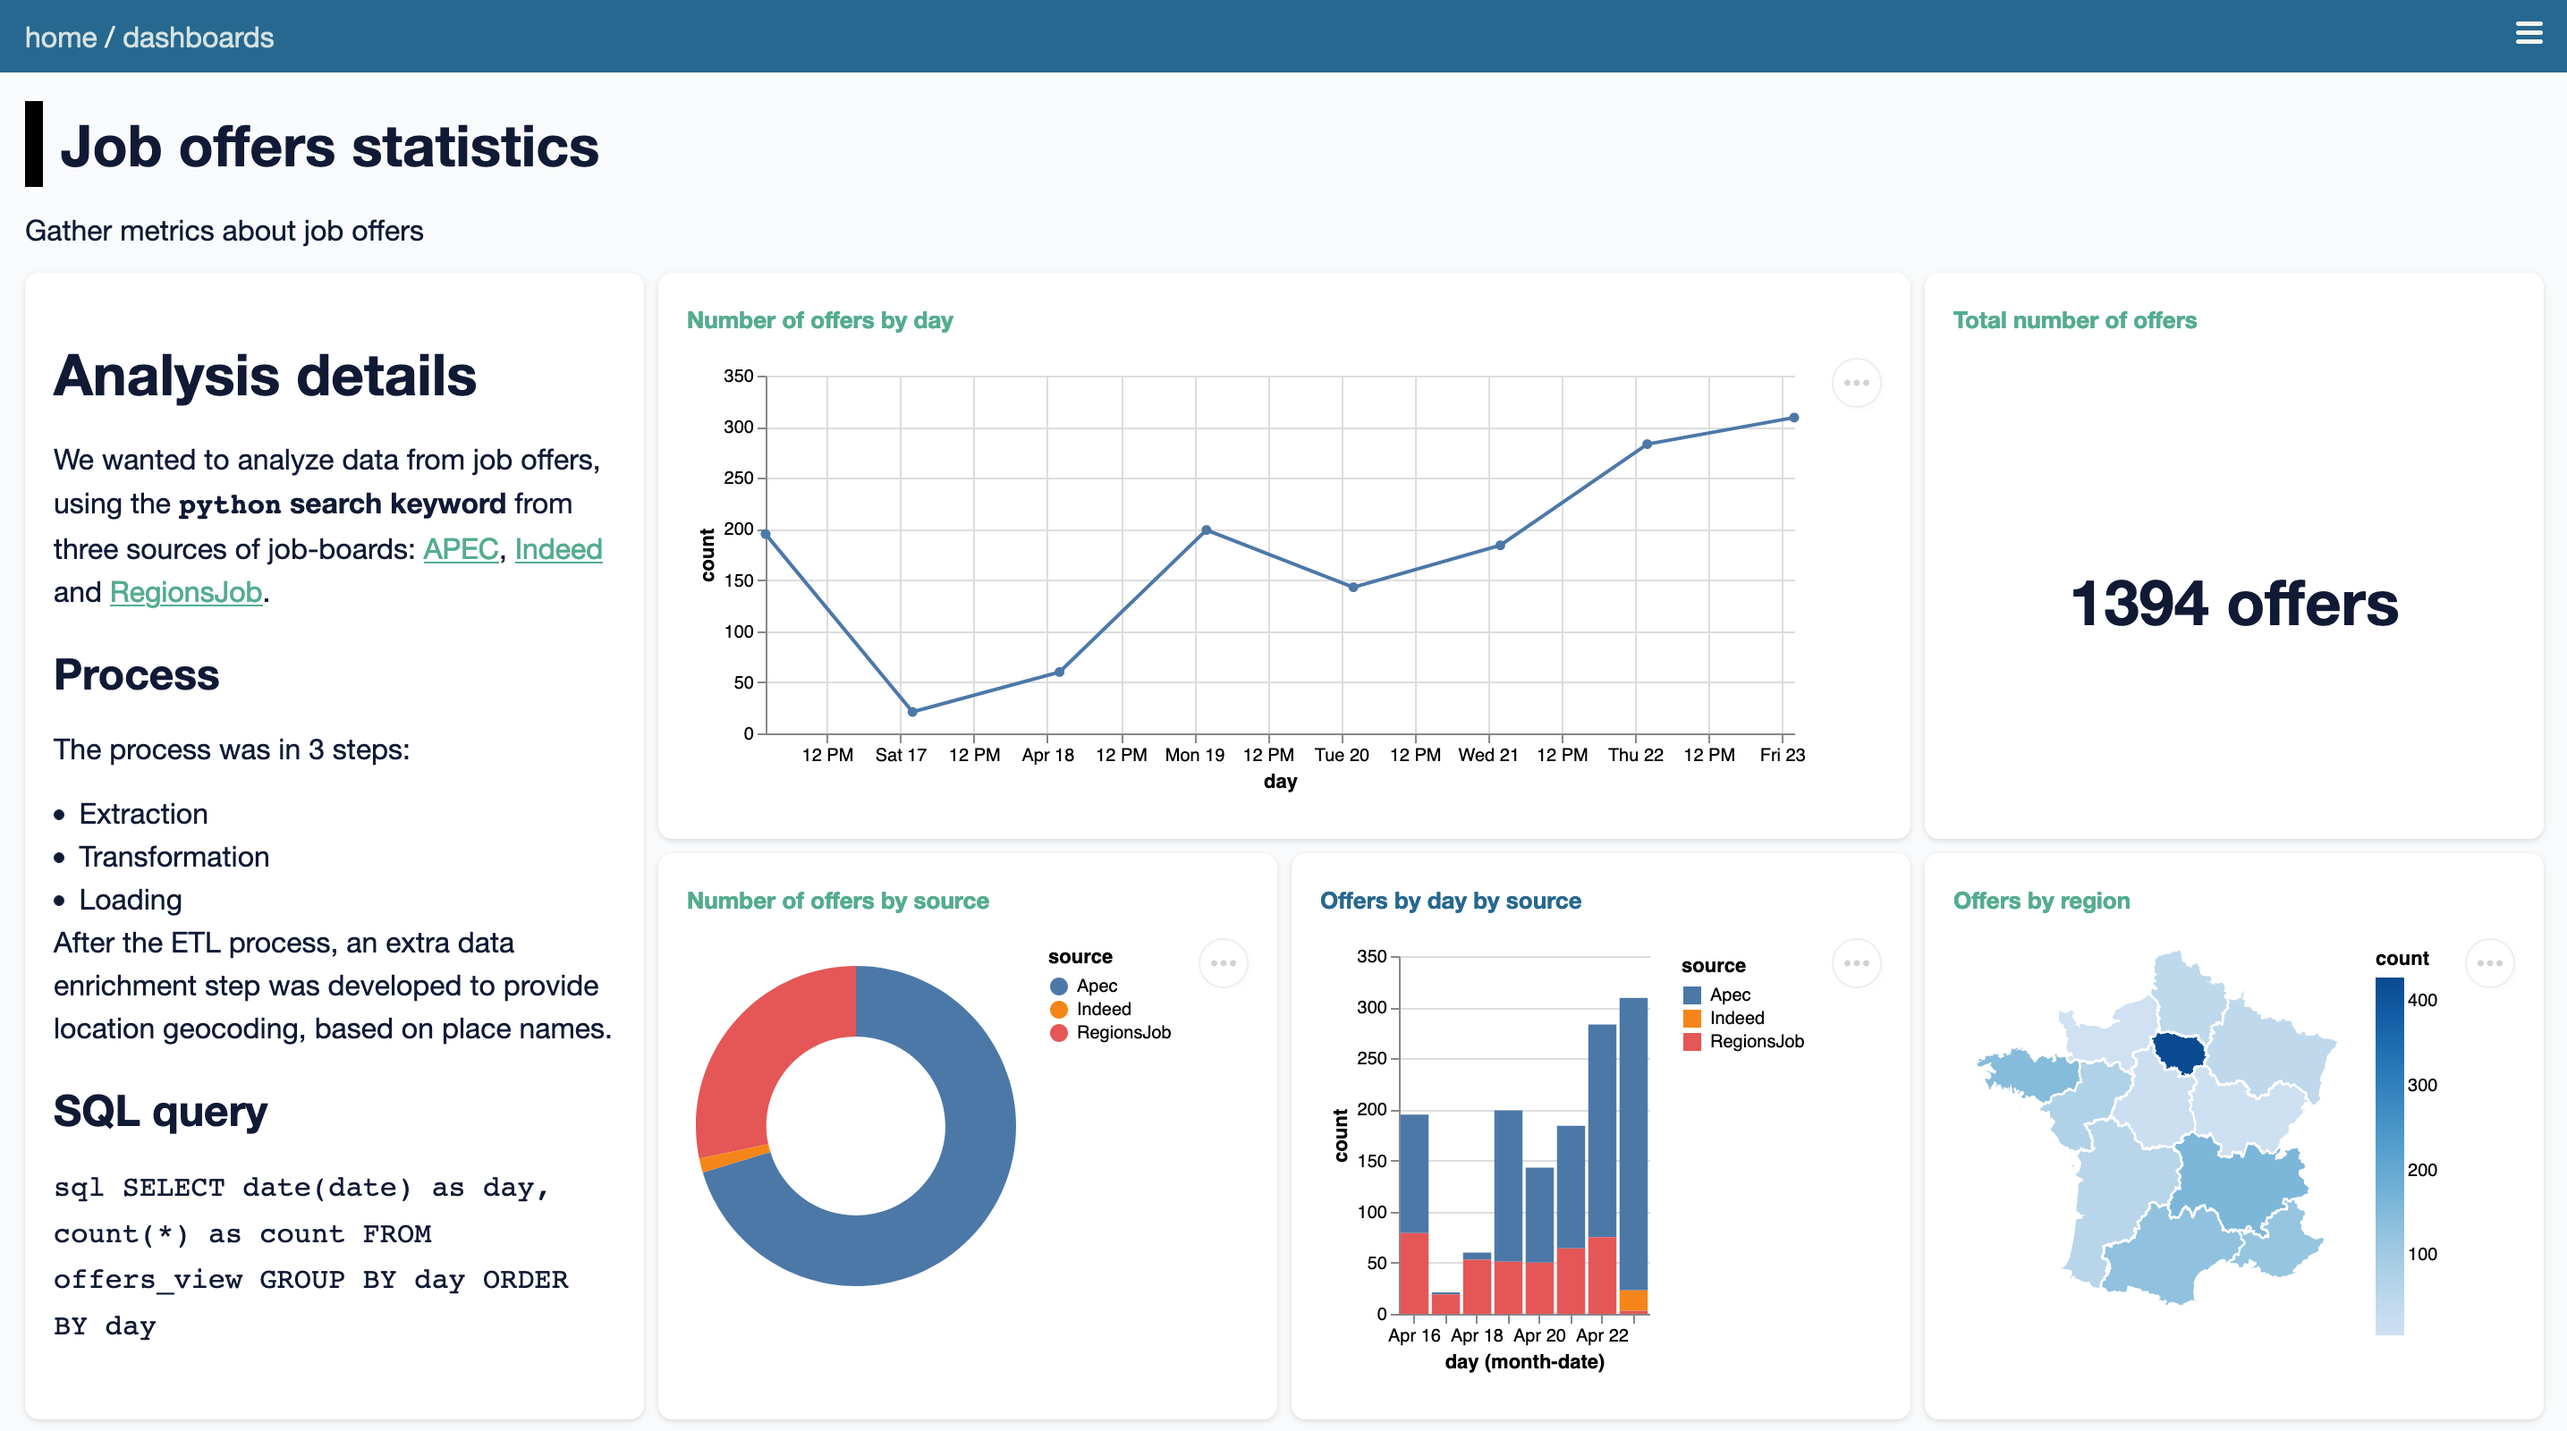
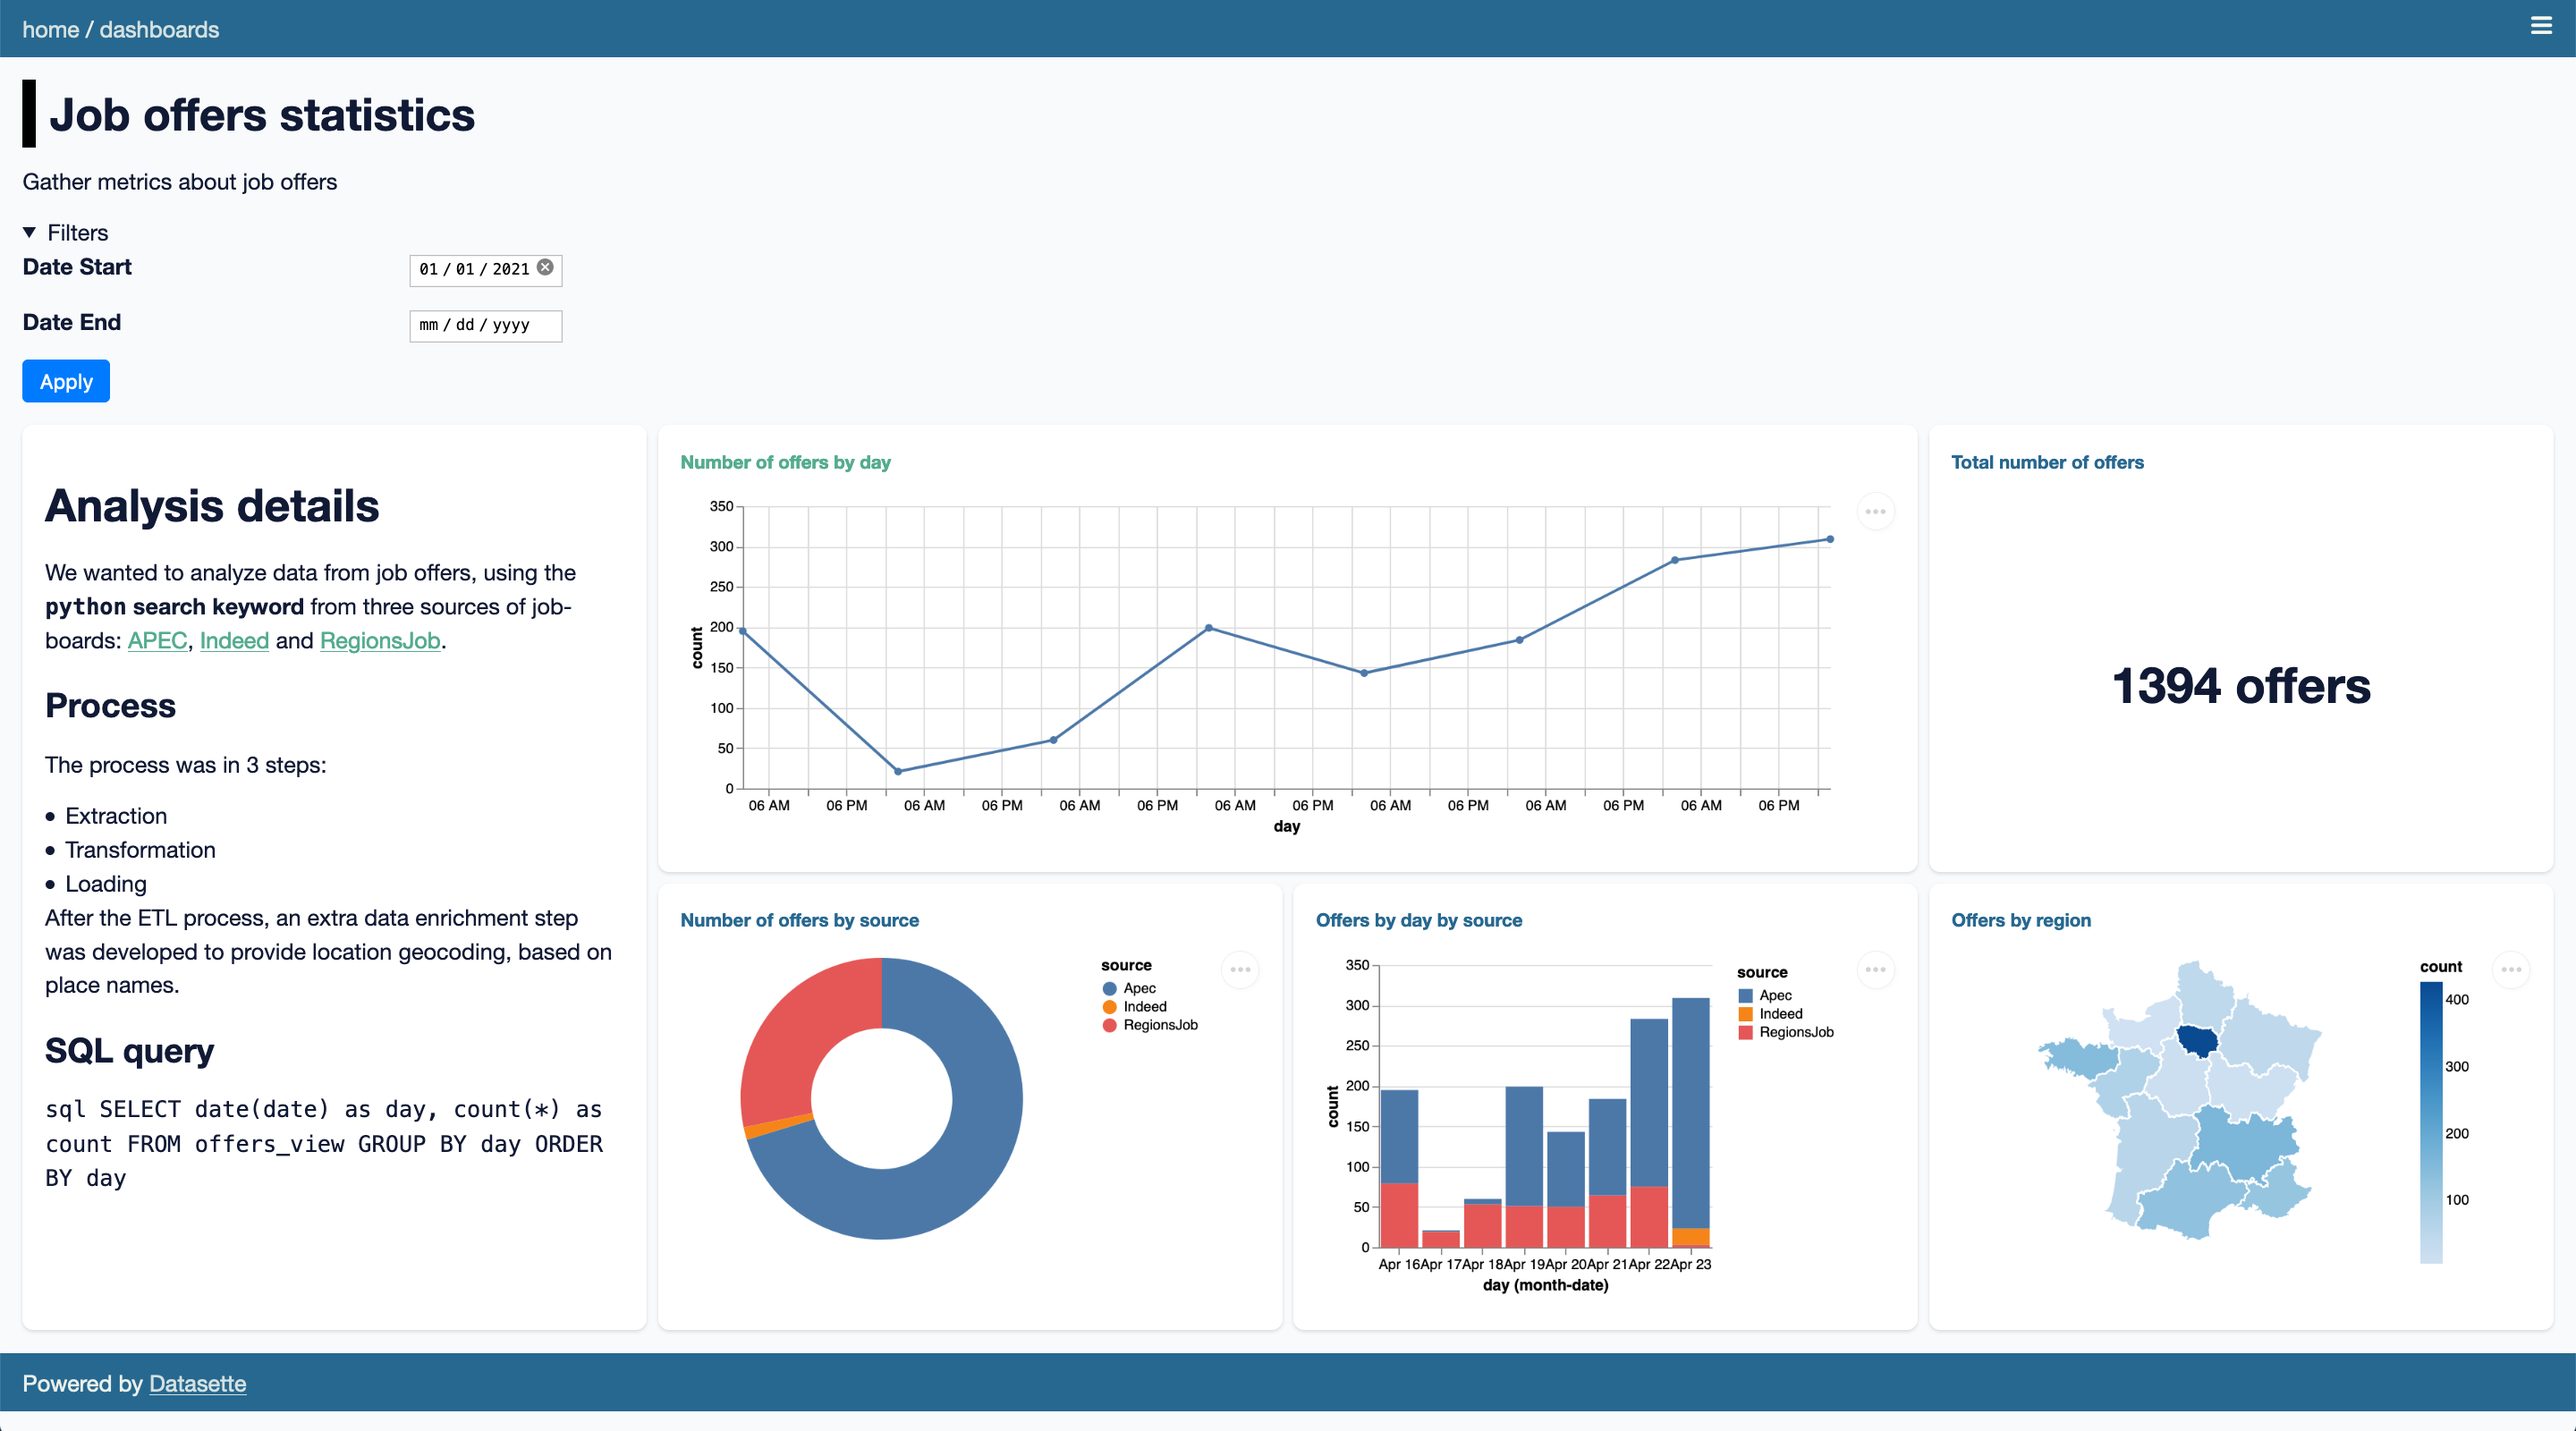
Implement dashboard filters in dashboard view

diff --git a/datasette_dashboards/templates/dashboard_view.html b/datasette_dashboards/templates/dashboard_view.html
@@ -44,6 +44,23 @@
       <p>{{ dashboard.description }}</p>
     </div>
 
+    {% if dashboard.filters %}
+    {{ request }}
+    <details class="dashboard-filters">
+      <summary>Filters</summary>
+
+      <form method="GET">
+        {% for key, dfilter in dashboard.filters.items() %}
+        <p>
+          <label for="{{ key }}">{{ dfilter.name }}</label>
+          <input id="{{ key }}" name="{{ key }}" type="{{ dfilter.type }}"{% if dfilter.min is defined %} min="{{ dfilter.min }}"{% endif %}{% if dfilter.max is defined %} max="{{ dfilter.max }}"{% endif %}{% if dfilter.step is defined %} step="{{ dfilter.step }}"{% endif %} value="{% if key in query_parameters.keys() %}{{ query_parameters[key] }}{% else %}{{ dfilter.default }}{% endif %}">
+        </p>
+        {% endfor %}
+        <input type="submit" value="Apply">
+      </form>
+    </details>
+    {% endif %}
+
     <div class="dashboard-grid">
       {% for chart_slug, chart in dashboard.charts.items() %}
       <div id="card-{{ chart_slug }}" class="dashboard-card">

diff --git a/datasette_dashboards/static/dashboards.css b/datasette_dashboards/static/dashboards.css
@@ -1,3 +1,7 @@
+.dashboard-filters {
+  margin-bottom: 1rem;
+}
+
 .dashboard-grid {
   display: grid;
   grid-auto-columns: minmax(100px, 1fr);

diff --git a/tests/test_dashboard_view.py b/tests/test_dashboard_view.py
@@ -14,6 +14,13 @@ async def test_dashboard_views(datasette):
         assert "grid-template-areas" not in response.text
         assert "grid-area:" not in response.text
 
+        assert '<details class="dashboard-filters">' in response.text
+        for key, flt in dashboard["filters"].items():
+            assert f'<label for="{key}">{flt["name"]}</label>' in response.text
+            assert (
+                f'<input id="{key}" name="{key}" type="{flt["type"]}"' in response.text
+            )
+
         for chart_slug, chart in dashboard["charts"].items():
             assert (
                 f'<div id="chart-{chart_slug}" class="dashboard-card-chart">'
@@ -66,6 +73,18 @@ async def test_dashboard_view_parameters(datasette):
         "/-/dashboards/job-dashboard?date_start=2021-01-01"
     )
     assert response.status_code == 200
+
+    assert '<details class="dashboard-filters">' in response.text
+    assert '<label for="date_start">Date Start</label>' in response.text
+    assert (
+        '<input id="date_start" name="date_start" type="date" value="2021-01-01">'
+        in response.text
+    )
+    assert (
+        '<input id="date_end" name="date_end" type="date" value="2021-12-31">'
+        in response.text
+    )
+
     assert (
         "SELECT date(date) as day, count(*) as count FROM offers_view WHERE TRUE  AND date \\u003e= date(:date_start)   GROUP BY day ORDER BY day"
         in response.text

diff --git a/datasette_dashboards/__init__.py b/datasette_dashboards/__init__.py
@@ -36,6 +36,10 @@ def get_dashboard_filters_keys(request, dashboard):
     return set(filters_keys) & set(request.args.keys())
 
 
+def get_dashboard_filters(request, opts_keys):
+    return {key: request.args[key] for key in opts_keys}
+
+
 def generate_dashboard_filters_qs(request, opts_keys):
     return urllib.parse.urlencode({key: request.args[key] for key in opts_keys})
 
@@ -91,6 +95,7 @@ async def dashboard_view(request, datasette):
         await check_permission_execute_sql(request, datasette, database)
 
     options_keys = get_dashboard_filters_keys(request, dashboard)
+    query_parameters = get_dashboard_filters(request, options_keys)
     query_string = generate_dashboard_filters_qs(request, options_keys)
 
     for chart in dashboard["charts"].values():
@@ -101,6 +106,7 @@ async def dashboard_view(request, datasette):
             "dashboard_view.html",
             {
                 "slug": slug,
+                "query_parameters": query_parameters,
                 "query_string": query_string,
                 "dashboard": dashboard,
             },

diff --git a/README.md b/README.md
@@ -36,6 +36,14 @@ plugins:
       layout:
         - [analysis-note, events-count]
         - [analysis-note, events-source]
+      filters:
+        date_start:
+          name: Date Start
+          type: date
+          default: "2021-01-01"
+        date_end:
+          name: Date End
+          type: date
       charts:
         analysis-note:
           library: markdown
@@ -56,7 +64,7 @@ plugins:
         events-source:
           title: Number of events by source
           db: jobs
-          query: SELECT source, count(*) as count FROM events GROUP BY source ORDER BY count DESC
+          query: SELECT source, count(*) as count FROM events WHERE TRUE [[ AND date >= date(:date_start) ]] [[ AND date <= date(:date_end) ]] GROUP BY source ORDER BY count DESC
           library: vega
           display:
             mark: { type: bar, tooltip: true }
@@ -76,6 +84,18 @@ Dashboard properties:
 | `title`       | `string` | Dashboard title       |
 | `description` | `string` | Dashboard description |
 | `layout`      | `array`  | Dashboard layout      |
+| `filters`     | `object` | Dashboard filters     |
+
+Dashboard filters:
+
+| Property  | Type               | Description                                  |
+| --------- | ------------------ | -------------------------------------------- |
+| `name`    | `string`           | Filter display name                          |
+| `type`    | `string`           | Filter type (mapped to HTML form input type) |
+| `default` | `string`, `number` | (optional) Filter default value              |
+| `min`     | `number`           | (optional) Filter minimum value              |
+| `max`     | `number`           | (optional) Filter maximum value              |
+| `step`    | `number`           | (optional) Filter stepping value             |
 
 Common chart properties for all chart types:
 
@@ -86,6 +106,16 @@ Common chart properties for all chart types:
 | `query`   | `string` | SQL query to run and extract data from                   |
 | `library` | `string` | One of supported libraries: `vega`, `markdown`           |
 | `display` | `object` | Chart display specification (depend on the used library) |
+
+To define SQL queries using dashboard filters:
+
+```sql
+SELECT * FROM mytable [[ WHERE col >= :my_filter ]]
+```
+
+```sql
+SELECT * FROM mytable WHERE TRUE [[ AND col1 = :my_filter_1 ]] [[ AND col2 = :my_filter_2 ]]
+```
 
 #### Vega properties
 

diff --git a/CHANGELOG.md b/CHANGELOG.md
@@ -5,6 +5,8 @@ The format is based on [Keep a Changelog](https://keepachangelog.com/en/1.0.0/),
 and this project adheres to [Semantic Versioning](https://semver.org/spec/v2.0.0.html).
 
 ## [Unreleased]
+### Added
+- Add dashboard filters feature
 
 ## [0.1.5] - 2021-05-23
 ### Fixed
